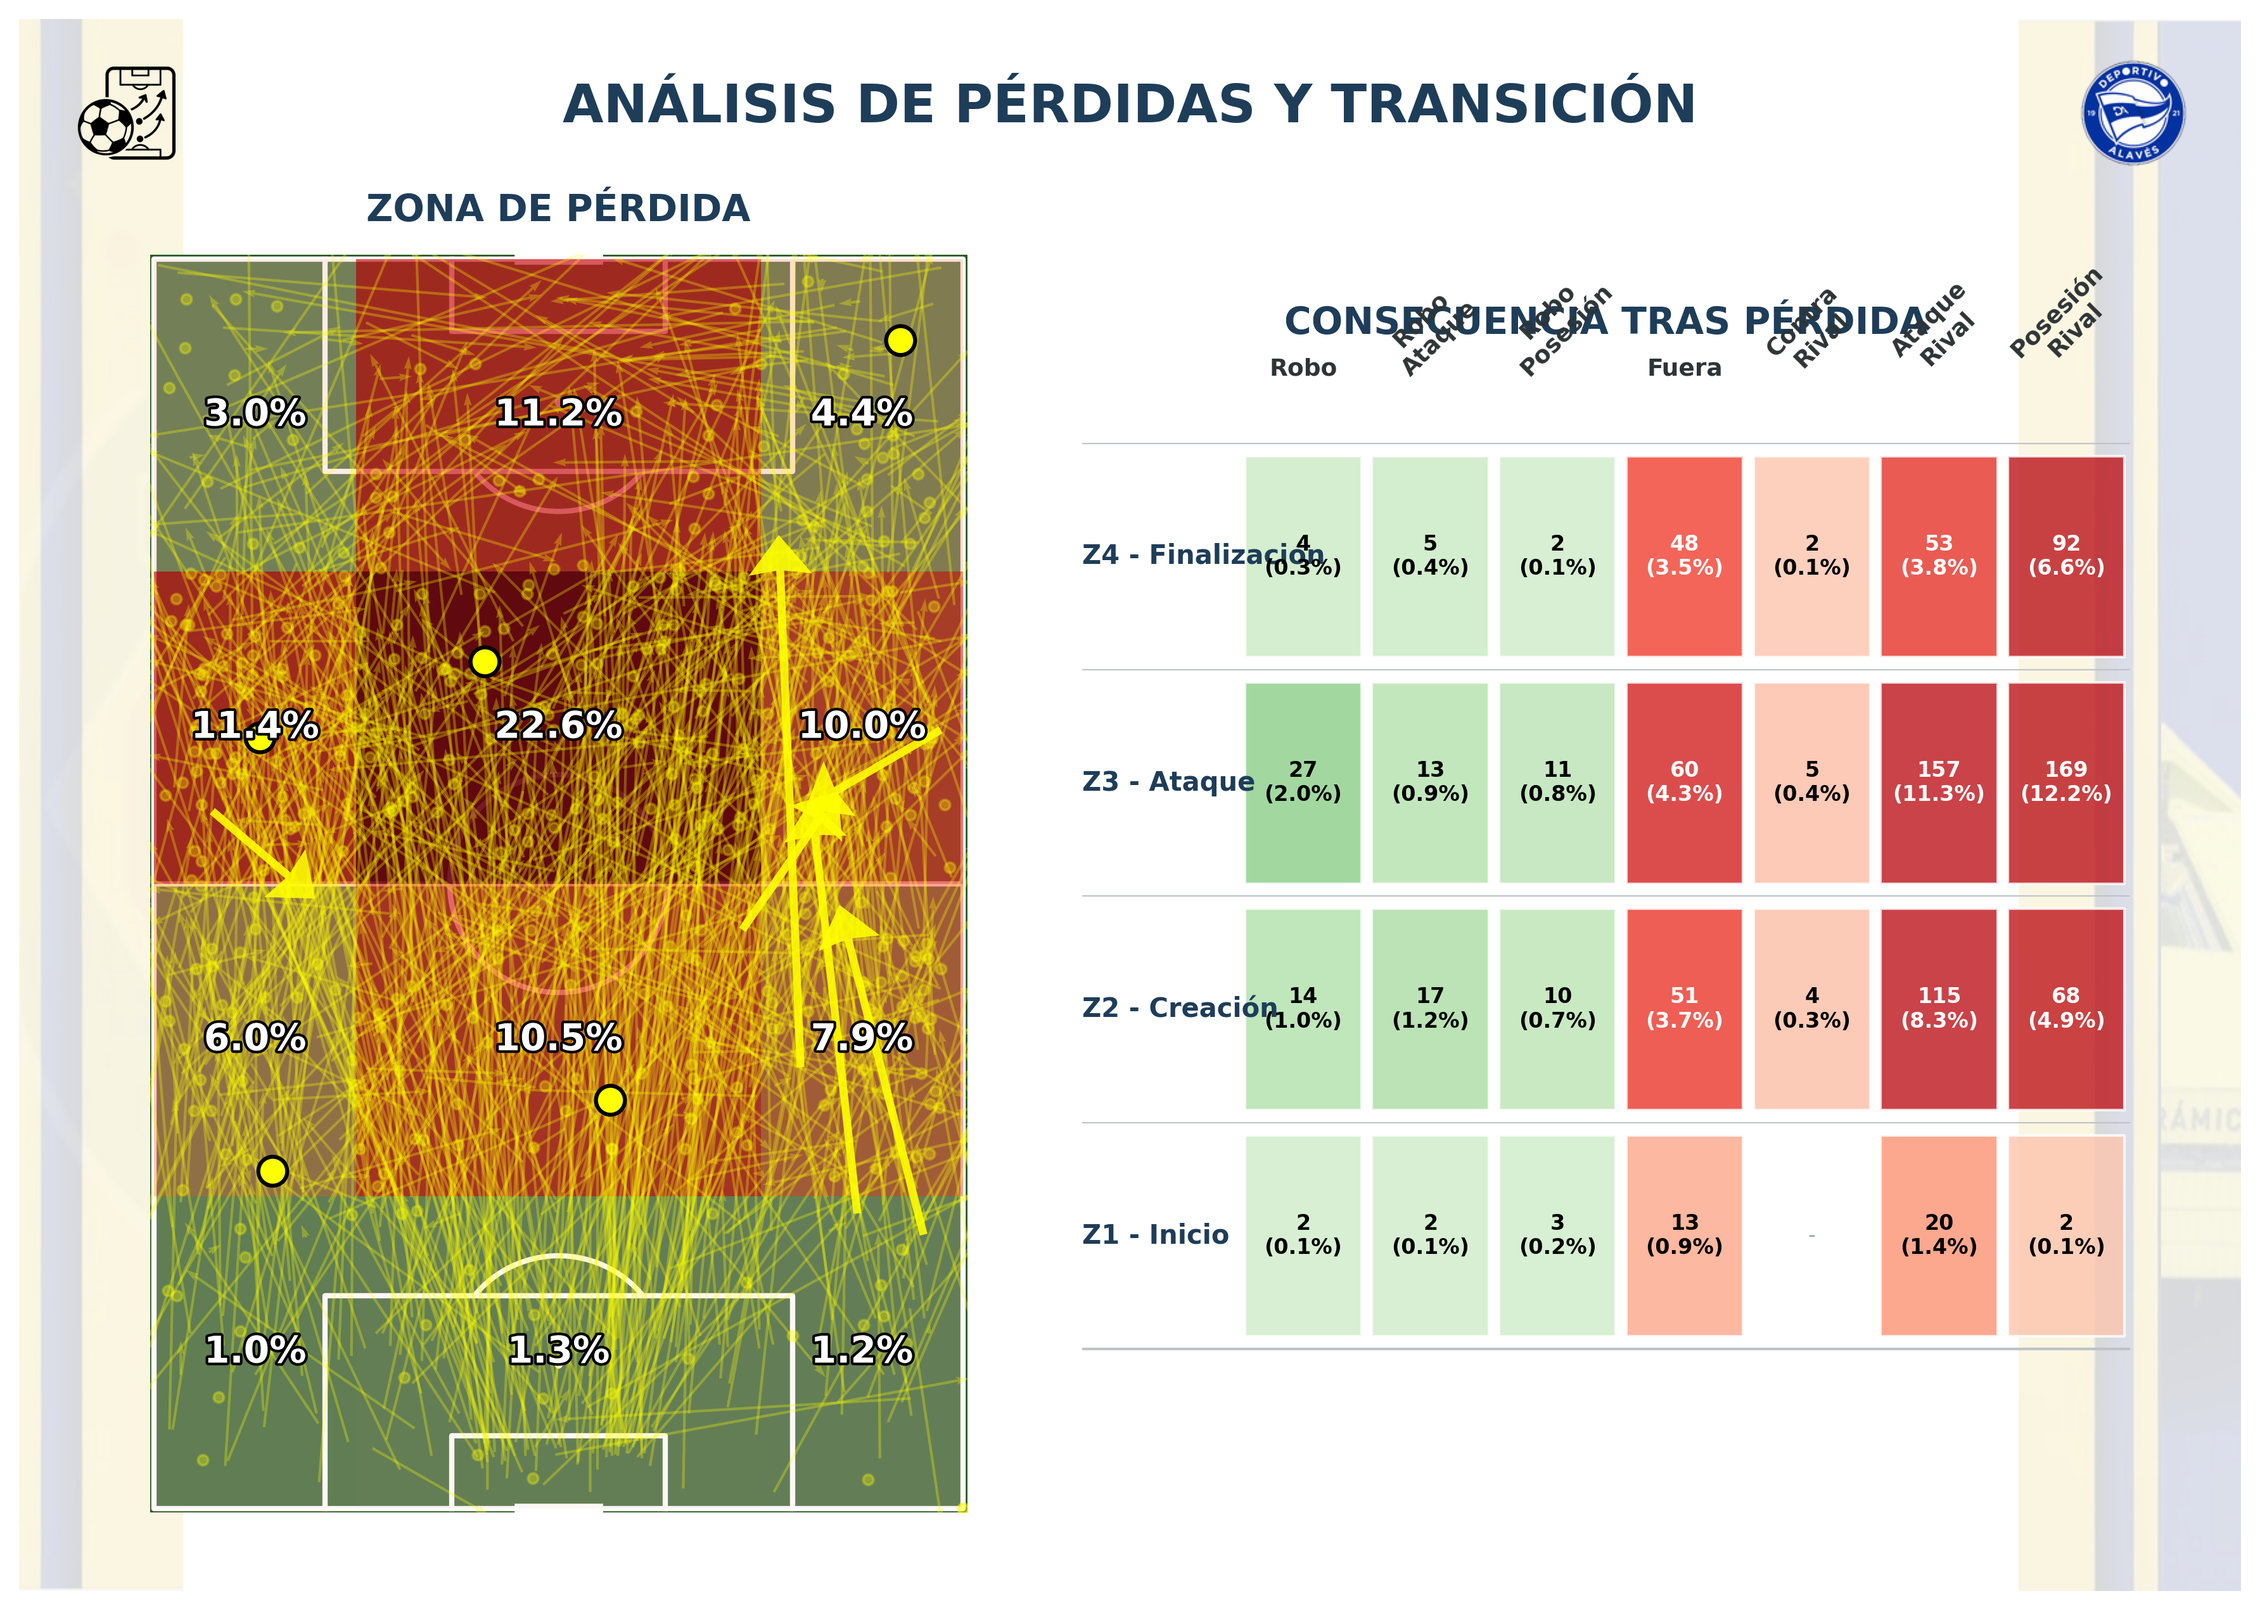
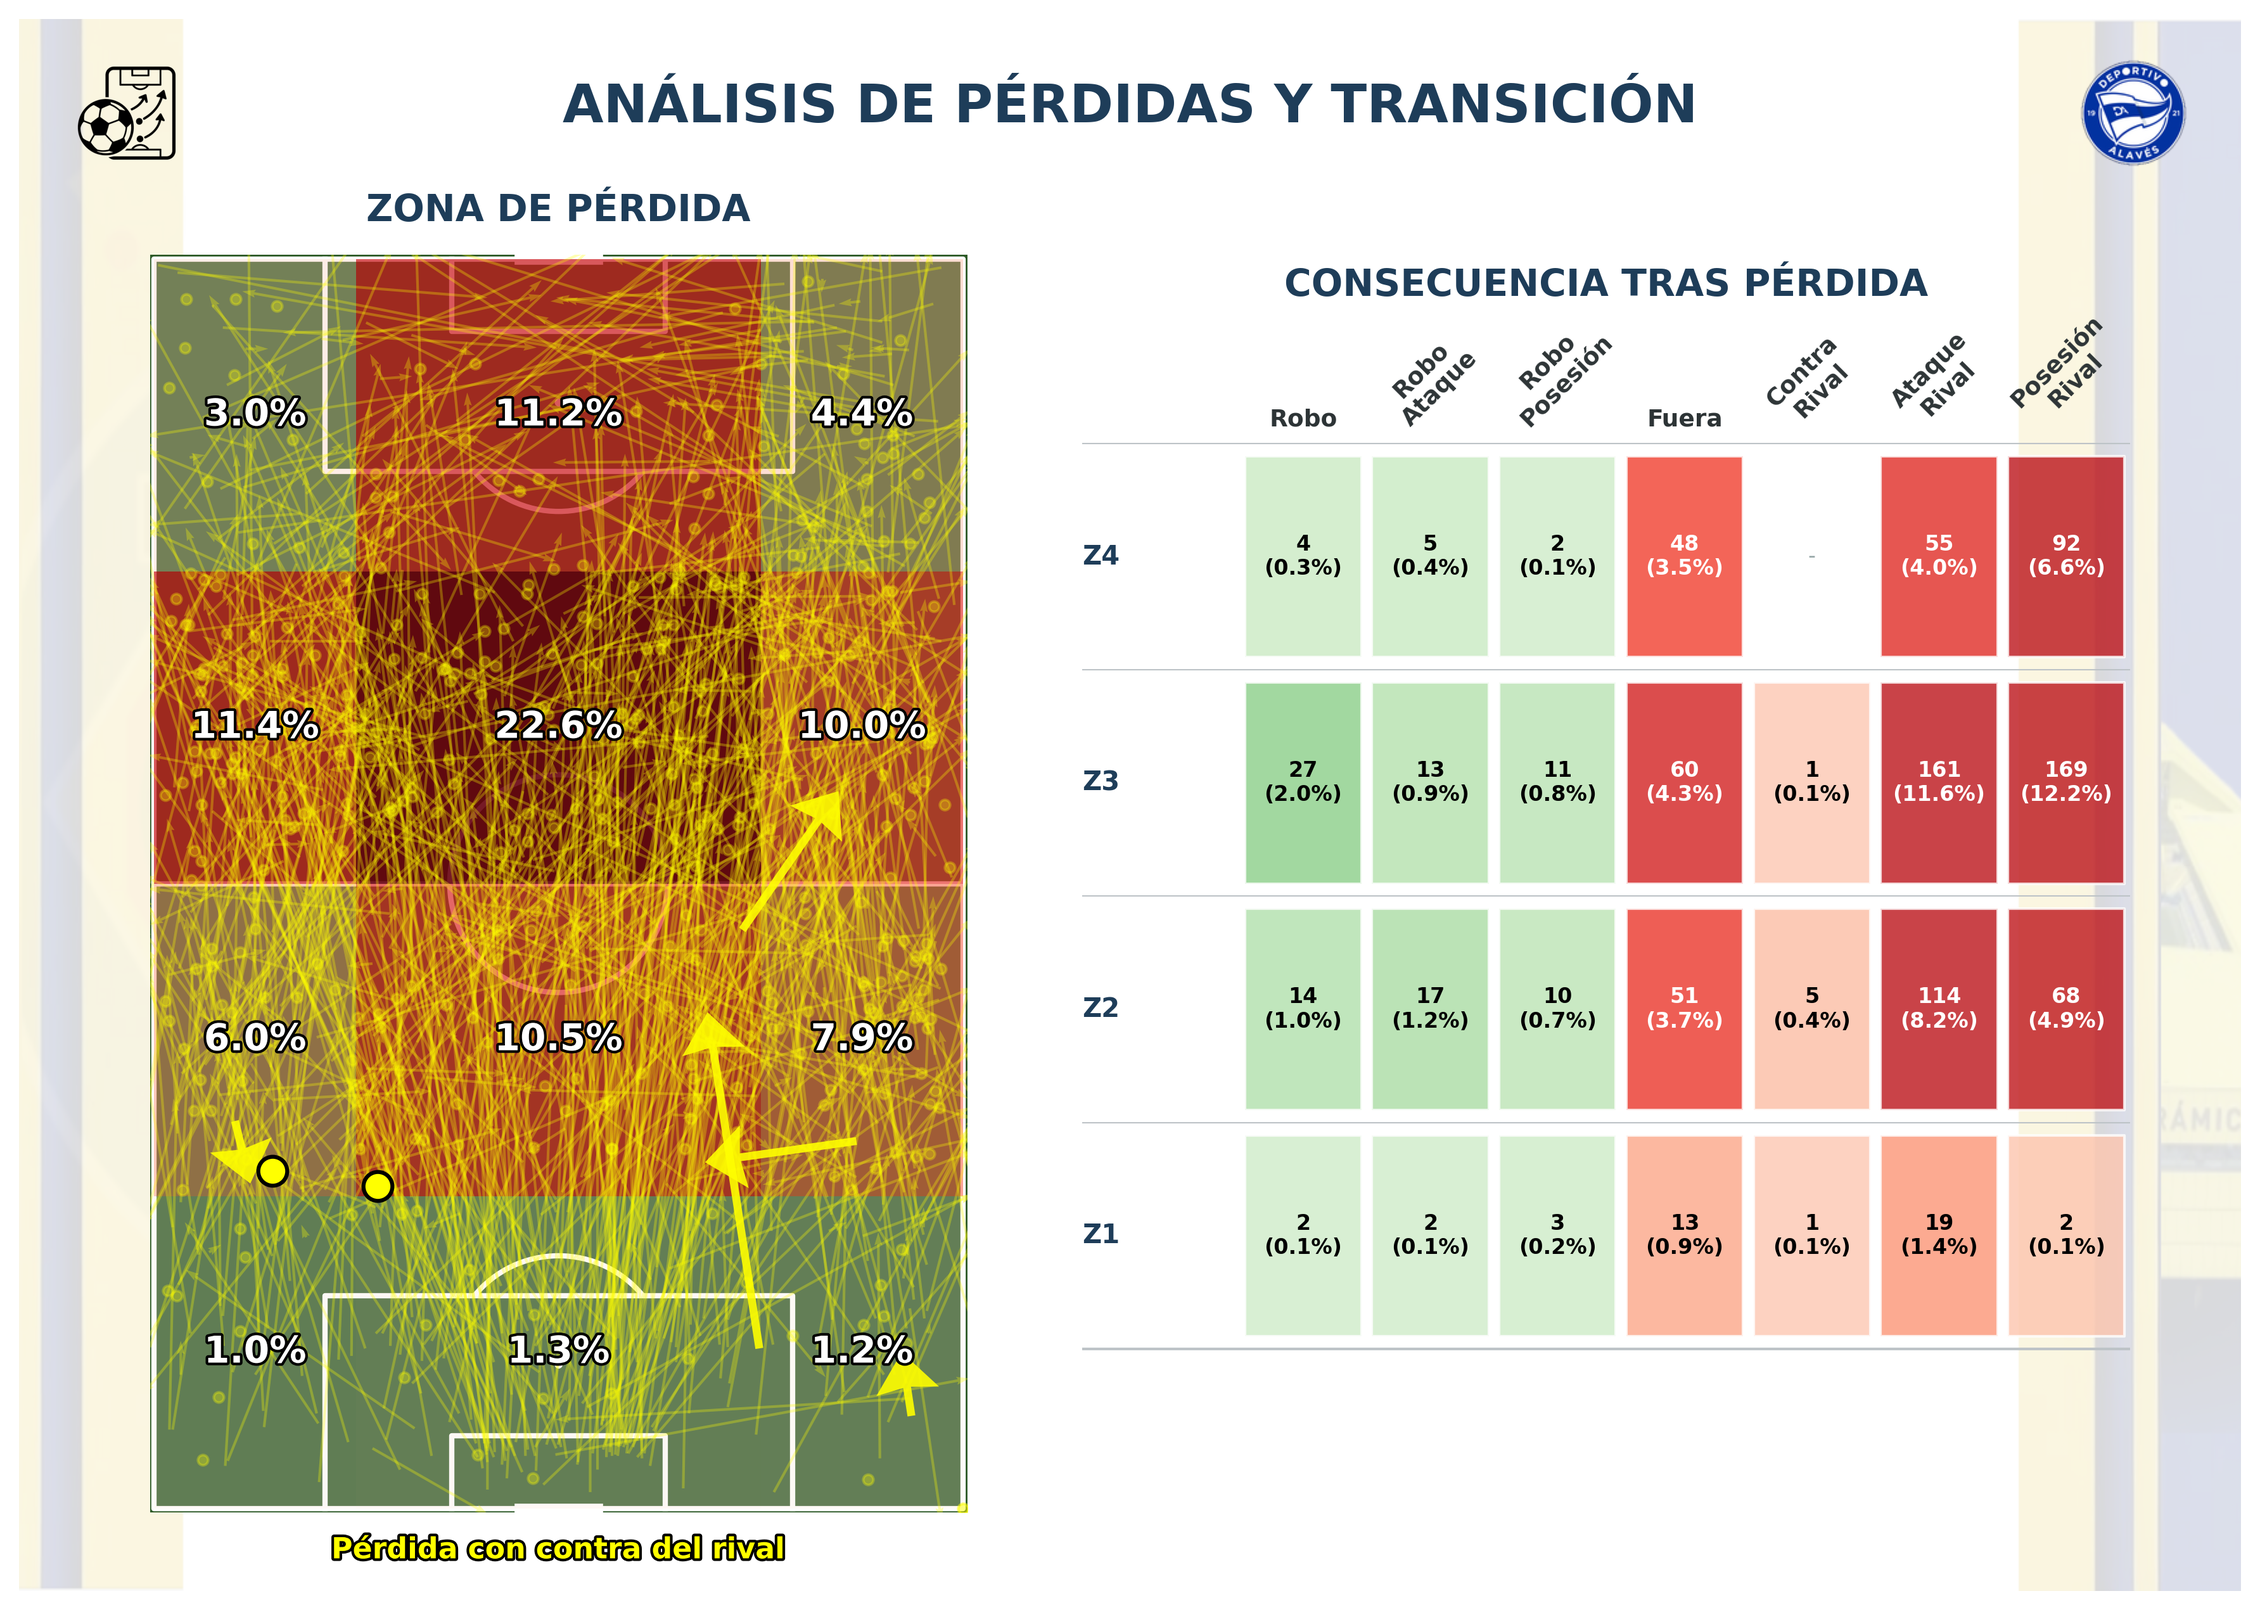
cambios

diff --git a/tactic5_opta_perdidas.py b/tactic5_opta_perdidas.py
@@ -26,32 +26,68 @@ def color_texto_segun_fondo(rgba):
     return 'black' if luminancia > 0.5 else 'white'
 
 def calcular_velocidad_y_zona(df_seq):
-    if df_seq.empty: return False, False, 0, False, 0, 0, 0
+    """
+    Calcula si una secuencia llega a zona de finalización y si es contraataque
+    basado en umbrales específicos de tiempo/distancia.
+    """
+    if df_seq.empty: 
+        return False, False, 0, False, 0, 0, 0
+
+    # 1. Detección de tiros
     eventos_tiro = ['Miss', 'Attempt Saved', 'Goal', 'Post']
     hay_tiro = df_seq['Event Name'].isin(eventos_tiro).any()
+
+    # 2. Obtención de coordenadas X (Inicio y Fin)
     x_vals = df_seq['x'].dropna()
-    if x_vals.empty: return False, False, 0, hay_tiro, 0, 0, 0
+    if x_vals.empty: 
+        return False, False, 0, hay_tiro, 0, 0, 0
+
     x_inicio = x_vals.iloc[0]
     x_fin = x_vals.iloc[-1]
+    
+    # Si el último evento es un pase, el fin real es el destino del pase
     ultimo_ev = df_seq.iloc[-1]
     if ultimo_ev['Event Name'] == 'Pass' and pd.notna(ultimo_ev.get('Pass End X')):
         x_fin = ultimo_ev['Pass End X']
+
+    # 3. Lógica de Zona 4 (¿Llegó a campo rival peligroso?)
     outcomes = pd.to_numeric(df_seq['outcome'], errors='coerce').fillna(1)
     en_z4 = df_seq['x'] > 75
     es_pase = df_seq['Event Name'] == 'Pass'
     pass_end_x = pd.to_numeric(df_seq['Pass End X'], errors='coerce').fillna(0)
     pases_a_z4 = es_pase & (pass_end_x > 75)
+    
+    # Se considera que llegó a Z4 si algún evento exitoso ocurrió o terminó allí
     candidatos_z4 = en_z4 | pases_a_z4
     exitos_en_z4 = df_seq[candidatos_z4 & (outcomes != 0)]
     llego_z4 = not exitos_en_z4.empty
+
+    # 4. Cálculo de duración en segundos
     if 'timeStamp' in df_seq.columns and pd.api.types.is_datetime64_any_dtype(df_seq['timeStamp']):
          duracion = (df_seq.iloc[-1]['timeStamp'] - df_seq.iloc[0]['timeStamp']).total_seconds()
-    else: duracion = 0
-    distancia_x = x_fin - x_inicio
+    else: 
+        duracion = 0
+
+    # 5. LÓGICA DE CONTRAATAQUE (Tus umbrales específicos)
     es_rapido = False
-    if distancia_x > 0:
-        if duracion <= (distancia_x / 10.0) * 2.0: es_rapido = True
+    
+    # Solo evaluamos contraataque si la jugada termina en zona de peligro (X >= 75)
+    if x_fin >= 75:
+        if x_inicio <= 5:
+            if duracion <= 11: es_rapido = True
+        elif x_inicio <= 20:
+            if duracion <= 10: es_rapido = True
+        elif x_inicio <= 28:
+            if duracion <= 8: es_rapido = True
+        elif x_inicio <= 48:
+            if duracion <= 6: es_rapido = True
+        else:
+            # Para recuperaciones en campo rival (X > 48) que llegan a zona de tiro
+            if duracion <= 5: es_rapido = True
+
+    # 6. Conteo de pases
     num_pases = len(df_seq[df_seq['Event Name'] == 'Pass'])
+
     return llego_z4, es_rapido, num_pases, hay_tiro, x_inicio, x_fin, duracion
 
 def obtener_posesiones(df_match):
@@ -386,6 +422,10 @@ class AnalizadorPerdidas:
             pitch.scatter(contra_puntos.x, contra_puntos.y, ax=ax, s=120, color=self.colors['arrow_highlight'], edgecolors='black', linewidth=1.5, alpha=1.0, zorder=3)
 
         ax.text(50, 103, "ZONA DE PÉRDIDA", color=self.colors['text_blue'], fontsize=14, fontweight='bold', ha='center')
+        # Texto "Pérdida con contra del rival" debajo del campo
+        ax.text(50, -4, "Pérdida con contra del rival", 
+                color='#ffff00', fontsize=11, ha='center', fontweight='bold',
+                path_effects=[path_effects.withStroke(linewidth=2, foreground='black')])
 
     def draw_stats_table(self, ax):
         """Dibuja una tabla estilizada con Matplotlib."""
